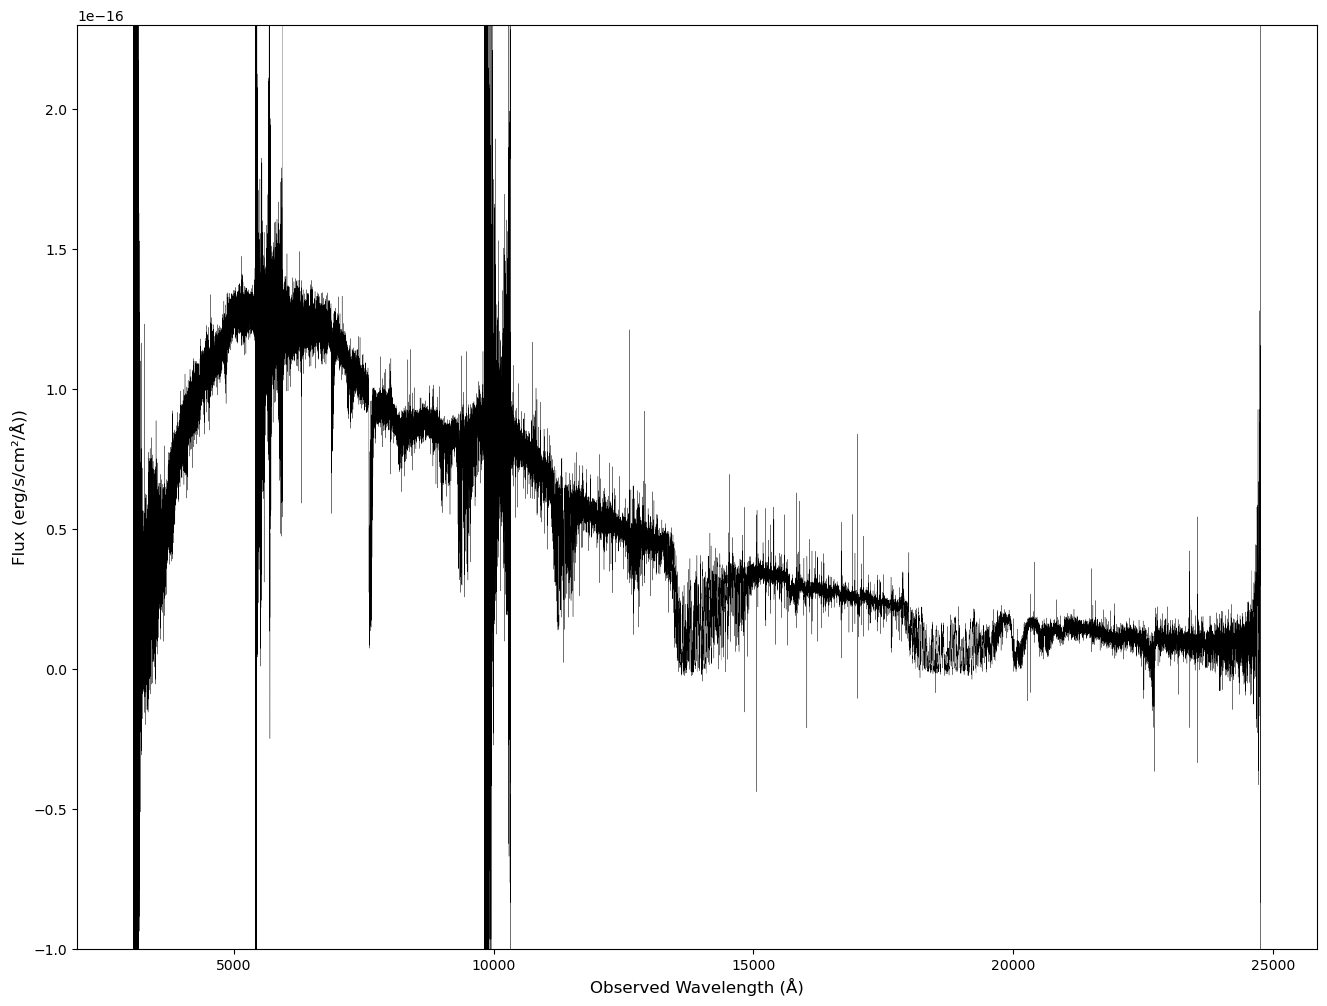
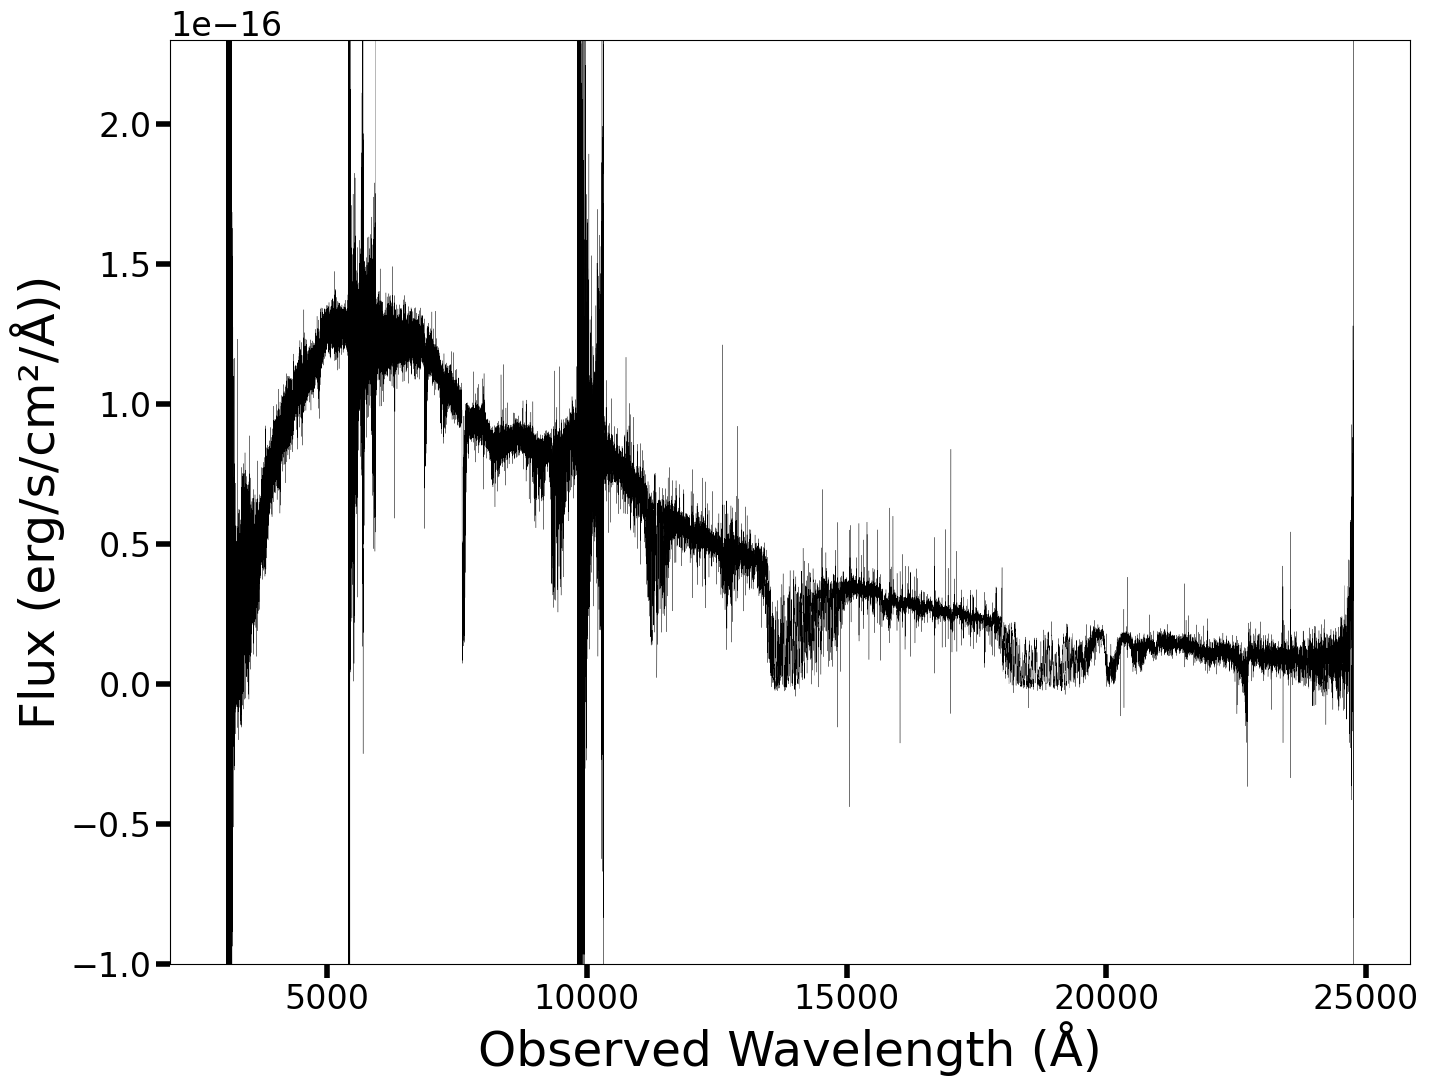
bigger plot fonts

diff --git a/PypeIt/AT2017gfo/FinalSpectrumPlots/Compared/ATcompared_glued.py b/PypeIt/AT2017gfo/FinalSpectrumPlots/Compared/ATcompared_glued.py
@@ -6,6 +6,7 @@ from astropy.io import fits
 import numpy as np
 import matplotlib.pyplot as plt
 
+
 def DatReader(filePath):
         return np.loadtxt(filePath, unpack=True)
 
@@ -38,8 +39,8 @@ SEP_CONST = 2E-17
 
 plt.figure(figsize=(16,12))
 plt.ylim(-1E-16,0.23E-15)
-plt.xlabel("Observed Wavelength (Å)",fontsize=12)
-plt.ylabel("Flux (erg/s/cm²/Å))",fontsize=12)
+plt.xlabel("Observed Wavelength (Å)",fontsize=35)
+plt.ylabel("Flux (erg/s/cm²/Å))",fontsize=35)
 
 for i in range(3): 
 	plt.plot(
@@ -52,7 +53,9 @@ for i in range(3):
 		label=(("PypeIt reduction-"+str(SEP_CONST)+"erg/s/cm²/Å") if i < 1 else None)
 		)
 
-for i in plt.legend().get_lines(): i.set_linewidth(2) 
+for i in plt.legend(fontsize=28).get_lines(): i.set_linewidth(2) 
 
+plt.tick_params(length=10, width=4,labelsize=24)
+plt.gca().get_yaxis().get_offset_text().set_size(24)
 plt.savefig("./AT2017compared_glued.png",bbox_inches="tight",facecolor="white")
 plt.show()

diff --git a/PypeIt/AT2017gfo/FinalSpectrumPlots/Compared/ATcompared_glued_tellCorr.py b/PypeIt/AT2017gfo/FinalSpectrumPlots/Compared/ATcompared_glued_tellCorr.py
@@ -38,8 +38,8 @@ SEP_CONST = 2E-17
 
 plt.figure(figsize=(16,12))
 plt.ylim(-1E-16,0.23E-15)
-plt.xlabel("Observed Wavelength (Å)",fontsize=12)
-plt.ylabel("Flux (erg/s/cm²/Å))",fontsize=12)
+plt.xlabel("Observed Wavelength (Å)",fontsize=35)
+plt.ylabel("Flux (erg/s/cm²/Å))",fontsize=35)
 
 for i in range(3): 
 	plt.plot(
@@ -52,7 +52,9 @@ for i in range(3):
 		label=(("PypeIt reduction-"+str(SEP_CONST)+"erg/s/cm²/Å") if i < 1 else None)
 		)
 
-for i in plt.legend().get_lines(): i.set_linewidth(2) 
+for i in plt.legend(fontsize=28).get_lines(): i.set_linewidth(2) 
 
+plt.tick_params(length=10, width=4,labelsize=24)
+plt.gca().get_yaxis().get_offset_text().set_size(24)
 plt.savefig("./AT2017compared_glued_tellCorr.png",bbox_inches="tight",facecolor="white")
 plt.show()

diff --git a/PypeIt/AT2017gfo/FinalSpectrumPlots/Alone/ATalone_glued_tellCorr.py b/PypeIt/AT2017gfo/FinalSpectrumPlots/Alone/ATalone_glued_tellCorr.py
@@ -22,10 +22,12 @@ specPypeit = np.array([UVBpypeIt[1],VISpypeIt[1],NIRpypeIt[1]], dtype = object)
 
 plt.figure(figsize=(16,12))
 plt.ylim(-1E-16,0.23E-15)
-plt.xlabel("Observed Wavelength (Å)",fontsize=12)
-plt.ylabel("Flux (erg/s/cm²/Å))",fontsize=12)
+plt.xlabel("Observed Wavelength (Å)",fontsize=35)
+plt.ylabel("Flux (erg/s/cm²/Å))",fontsize=35)
 
 for i in range(3): plt.plot(wavePypeit[i], specPypeit[i], color="k",lw=0.2, )
 
+plt.tick_params(length=10, width=4,labelsize=24)
+plt.gca().get_yaxis().get_offset_text().set_size(24)
 plt.savefig("./ATalone_glued_TellCorr.png",bbox_inches="tight",facecolor="white")
 plt.show()

diff --git a/PypeIt/AT2017gfo/FinalSpectrumPlots/Alone/ATalone_glued.py b/PypeIt/AT2017gfo/FinalSpectrumPlots/Alone/ATalone_glued.py
@@ -22,10 +22,11 @@ specPypeit = np.array([UVBpypeIt[1],VISpypeIt[1],NIRpypeIt[1]], dtype = object)
 
 plt.figure(figsize=(16,12))
 plt.ylim(-1E-16,0.23E-15)
-plt.xlabel("Observed Wavelength (Å)",fontsize=12)
-plt.ylabel("Flux (erg/s/cm²/Å))",fontsize=12)
+plt.xlabel("Observed Wavelength (Å)",fontsize=35)
+plt.ylabel("Flux (erg/s/cm²/Å))",fontsize=35)
 
 for i in range(3): plt.plot(wavePypeit[i], specPypeit[i], color="k",lw=0.2, )
-
+plt.tick_params(length=10, width=4,labelsize=24)
+plt.gca().get_yaxis().get_offset_text().set_size(24)
 plt.savefig("./ATalone_glued.png",bbox_inches="tight",facecolor="white")
 plt.show()
